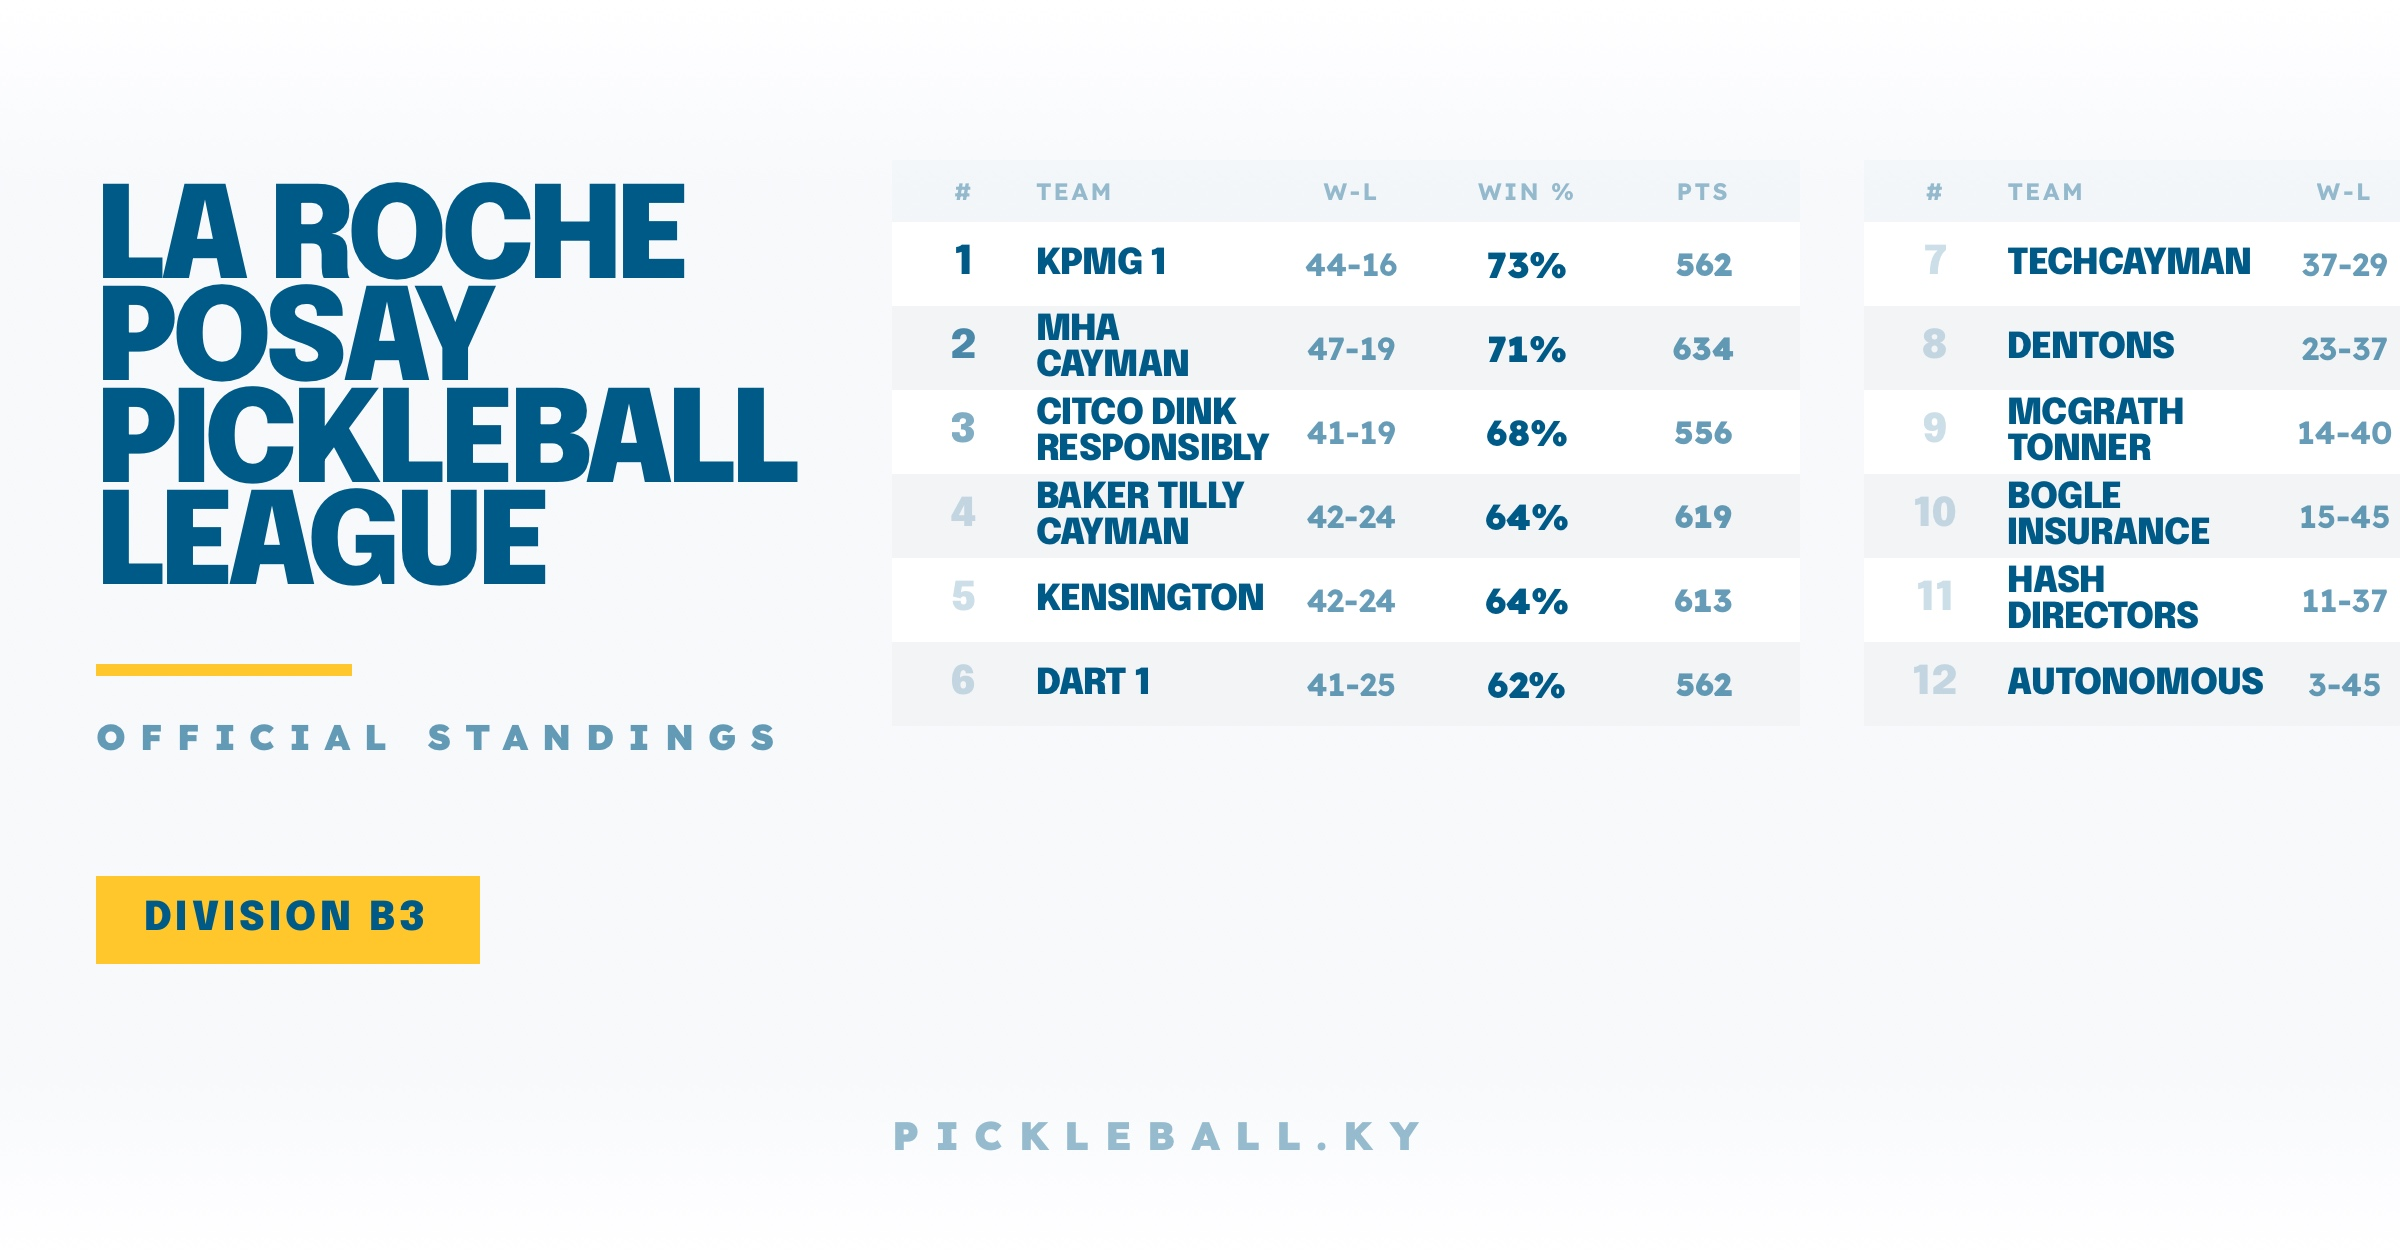
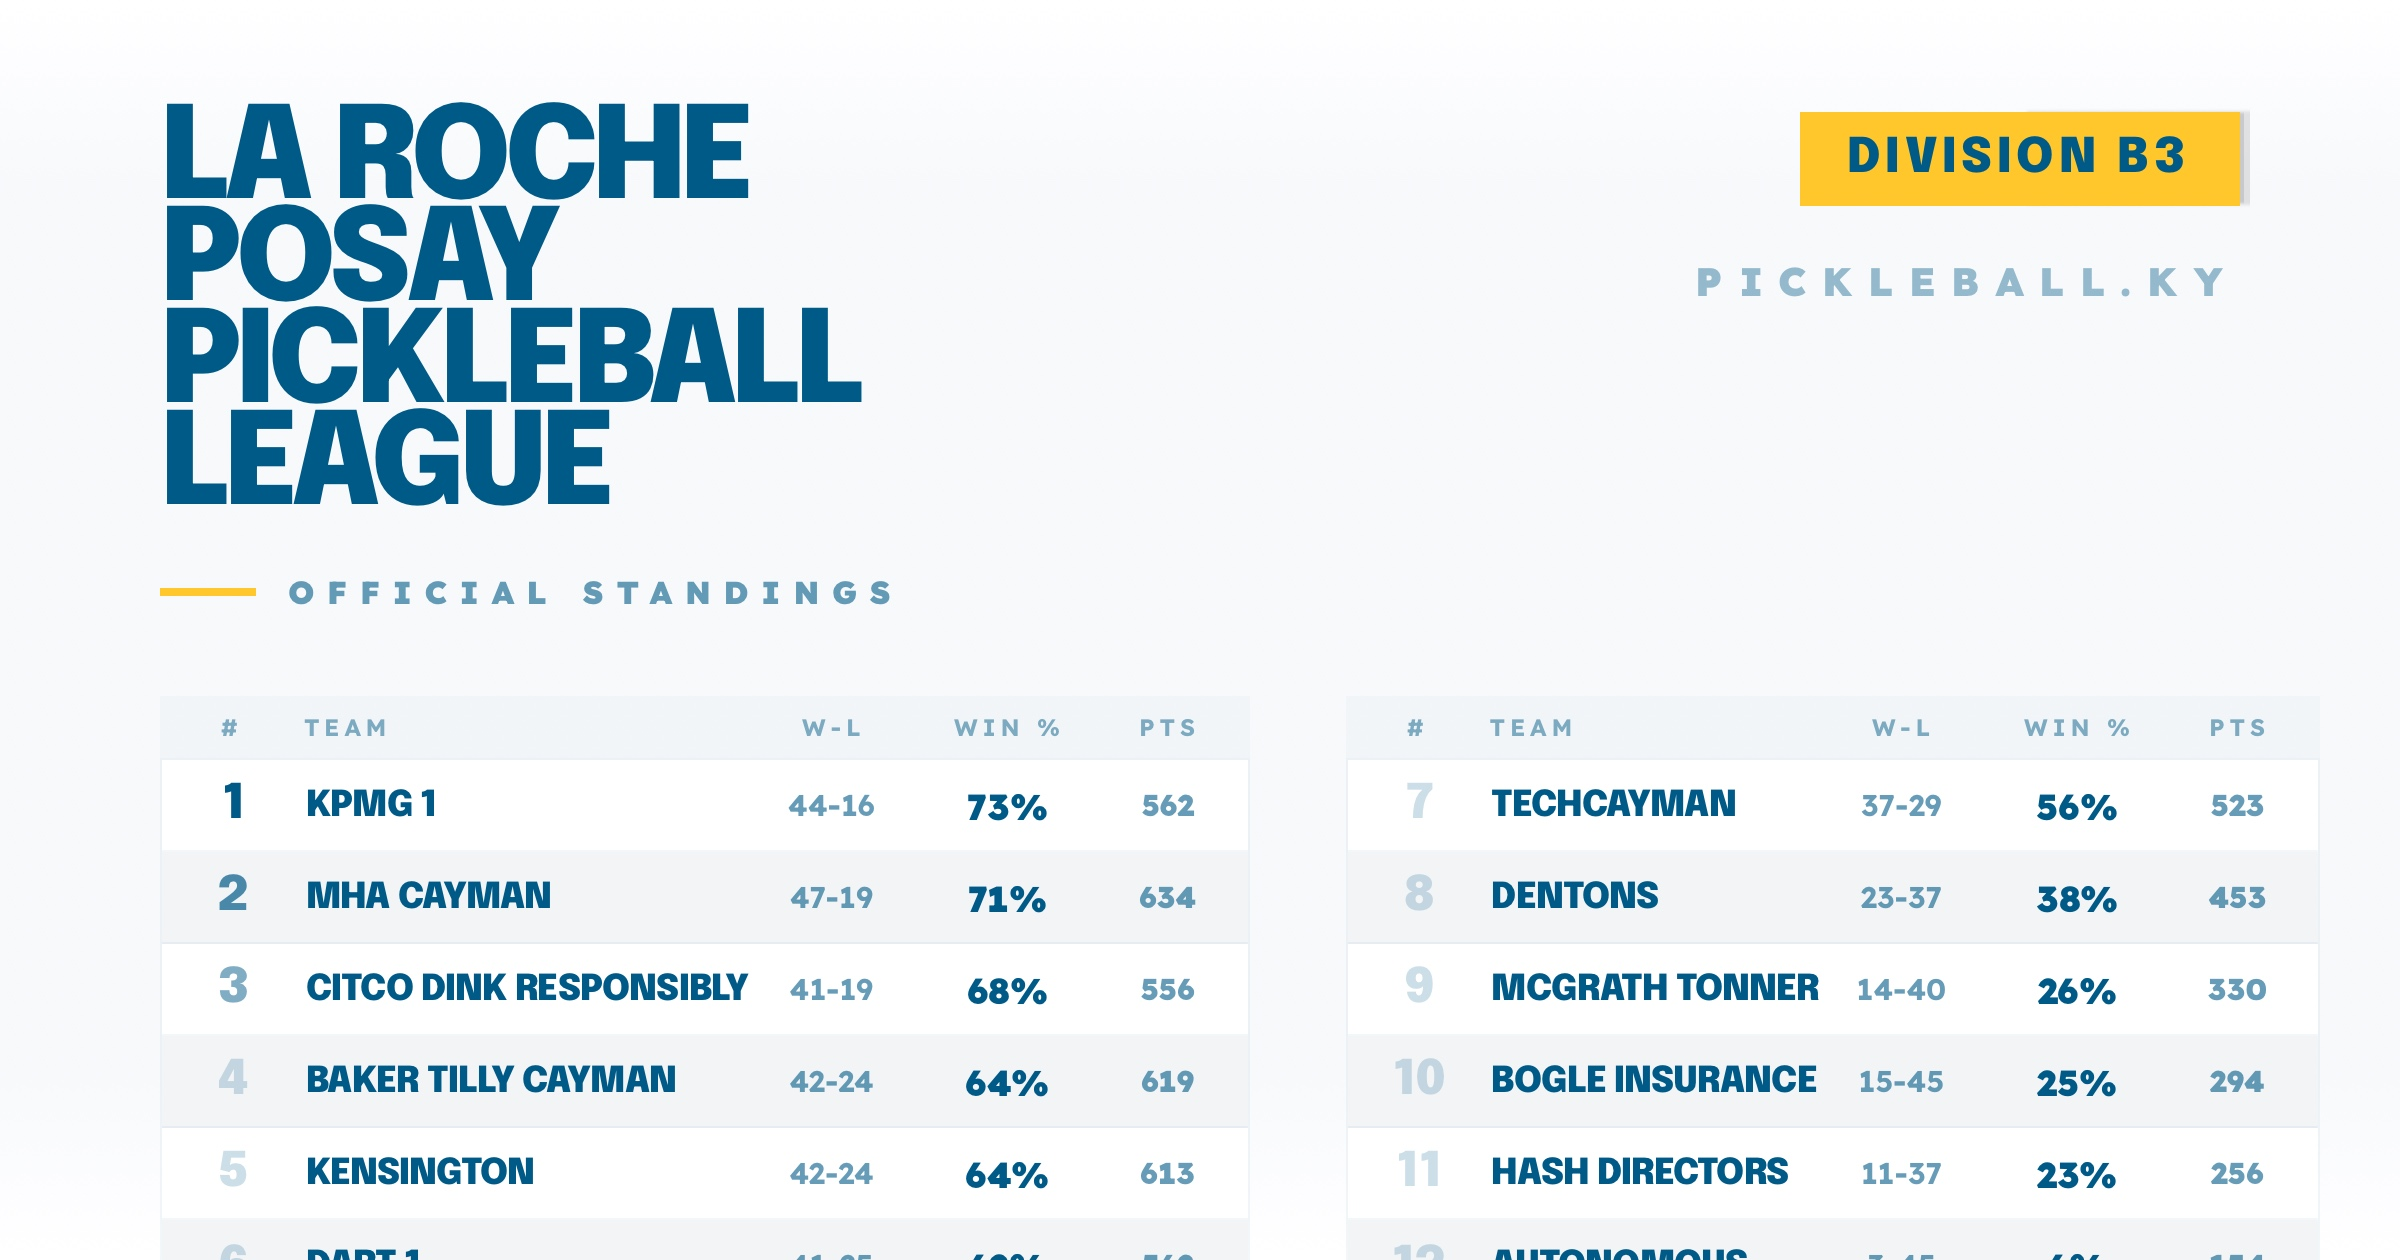
style: reduce post sharing header to 2 lines to prevent content clipping

diff --git a/app/src/components/ShareableMatch.tsx b/app/src/components/ShareableMatch.tsx
@@ -58,12 +58,10 @@ export const ShareableMatch: React.FC<ShareableMatchProps> = ({
             /* Post Layout (Landscape) - REFACTORED TO MATCH STORY STYLE */
             <div className="relative z-10 flex h-full gap-12 items-center">
                 {/* Left Column: Masthead */}
-                <div className="flex flex-col justify-center items-start space-y-6 w-[350px] flex-shrink-0">
-                    <h1 className="font-display font-black text-[#005a87] text-[64px] uppercase tracking-tighter leading-[0.8] flex flex-col">
-                        <span>LA ROCHE</span>
-                        <span>POSAY</span>
-                        <span>PICKLEBALL</span>
-                        <span>LEAGUE</span>
+                <div className="flex flex-col justify-center items-start space-y-6 w-[450px] flex-shrink-0">
+                    <h1 className="font-display font-black text-[#005a87] text-[64px] uppercase tracking-tighter leading-[0.85] flex flex-col">
+                        <span>LA ROCHE POSAY</span>
+                        <span>PICKLEBALL LEAGUE</span>
                     </h1>
                     
                     <div className="flex flex-col items-start gap-4 pt-2">

diff --git a/app/src/components/ShareableLeaderboard.tsx b/app/src/components/ShareableLeaderboard.tsx
@@ -47,11 +47,9 @@ export const ShareableLeaderboard: React.FC<ShareableLeaderboardProps> = ({
                 {/* Top Section: Masthead */}
                 <div className="w-full flex justify-between items-start mb-10 pt-2 px-8">
                     <div className="flex flex-col items-start gap-4">
-                         <h1 className="font-display font-black text-[#005a87] text-[64px] uppercase tracking-tighter leading-[0.8] flex flex-col">
-                            <span>LA ROCHE</span>
-                            <span>POSAY</span>
-                            <span>PICKLEBALL</span>
-                            <span>LEAGUE</span>
+                         <h1 className="font-display font-black text-[#005a87] text-[64px] uppercase tracking-tighter leading-[0.85] flex flex-col">
+                            <span>LA ROCHE POSAY</span>
+                            <span>PICKLEBALL LEAGUE</span>
                         </h1>
                         <div className="flex items-center gap-4 mt-2">
                              <div className="w-12 h-1 bg-[#ffc72c]" />
